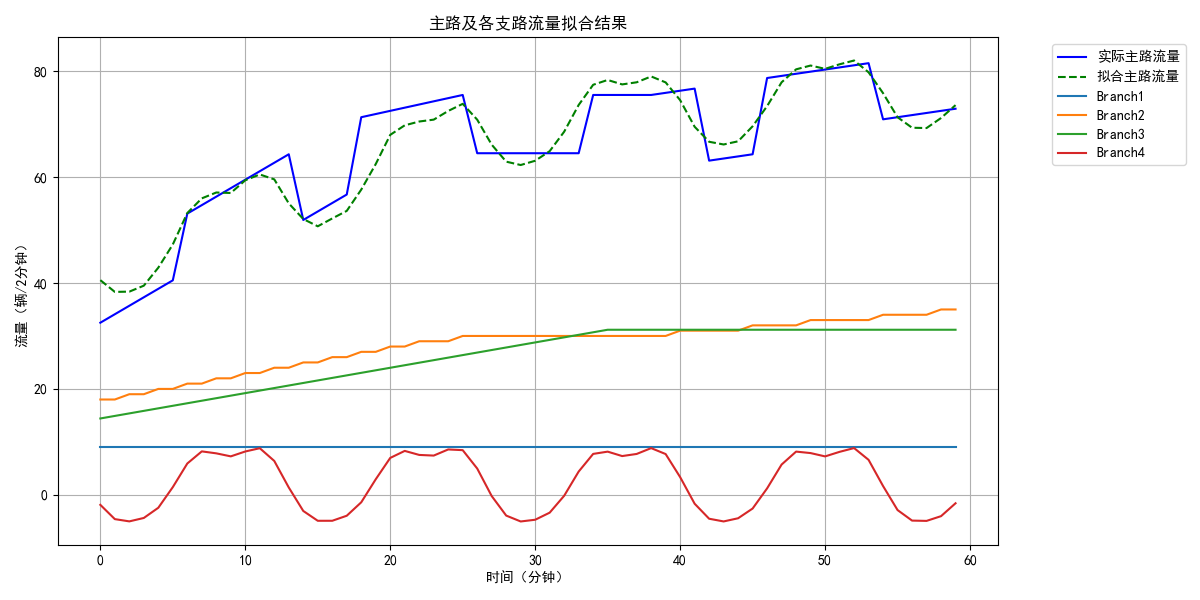
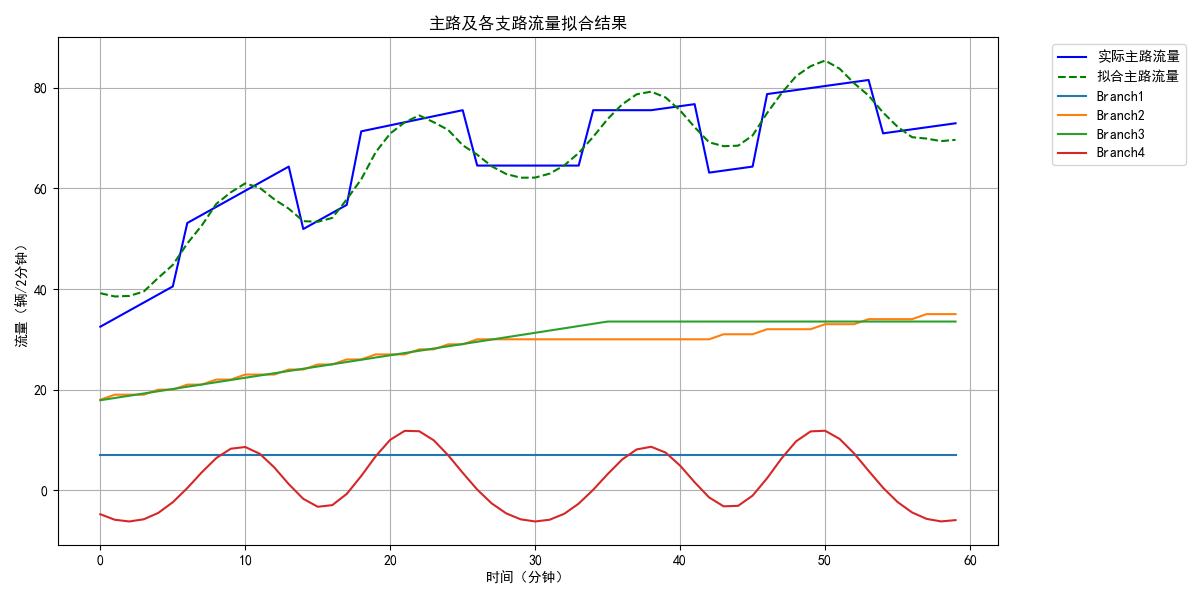
refactor(51MCM/P2): 重构代码并优化结果输出
- 优化变量命名和结构，提高代码可读性
- 改进参数边界设置，简化代码
- 更新函数定义，增强代码的模块化
- 调整绘图和结果输出，提升结果的呈现效果

diff --git a/51MCM/P2.py b/51MCM/P2.py
@@ -4,59 +4,44 @@ from scipy.optimize import minimize
 from pyswarm import pso
 import matplotlib.pyplot as plt
 
+# 配置matplotlib中文显示
 plt.rcParams['font.sans-serif'] = ['SimHei']
 plt.rcParams['axes.unicode_minus'] = False
 
 # 读取数据
-df = pd.read_excel('.\\2025-51MCM-Problem A\\附件(Attachment).xlsx', sheet_name='表2 (Table 2)')
-times = df['时间 t (Time t)'].values
-F_true = df['主路5的车流量 (Traffic flow on the Main road 5)'].values
+_df = pd.read_excel('.\\2025-51MCM-Problem A\\附件(Attachment).xlsx', sheet_name='表2 (Table 2)')
+times = _df['时间 t (Time t)'].values
+F_true = _df['主路5的车流量 (Traffic flow on the Main road 5)'].values
 
-# 定义Huber损失函数（鲁棒优化）
 def huber_loss(y_true, y_pred, delta=10.0):
     error = y_true - y_pred
     return np.where(np.abs(error) <= delta, 0.5 * error**2, delta * (np.abs(error) - 0.5 * delta))
 
-# 支路流量函数定义
 def branch1(t, C1):
     return C1 if np.isscalar(t) else np.full_like(t, C1)
 
 def branch2(t, a1, b1, a2):
-    C2 = a1 * 24 + b1 # 稳定阶段的车流量
+    C2 = a1 * 24 + b1
     result = np.zeros_like(t)
-
     mask_growth = (t <= 24)
     mask_stable = (t > 24) & (t <= 37)
     mask_decrease = (t > 37)
-
     result[mask_growth] = a1 * t[mask_growth] + b1
     result[mask_stable] = C2
-    # 确保线性减少阶段在 t=37 处与稳定阶段的值相等
     result[mask_decrease] = a2 * (t[mask_decrease] - 37) + C2
-
     return result
 
-def branch3(t, a3, b3, t2, C3):
+def branch3(t, a3, b3, t2):
     result = np.zeros_like(t, dtype=float)
-
-    # 确保在 t2 时刻的车流量等于 C3
     C2_at_t2 = a3 * t2 + b3
-
     linear_growth_mask = t < t2
     stable_mask = t >= t2
-
-    # 在线性增长阶段，使用原始公式
     result[linear_growth_mask] = a3 * t[linear_growth_mask] + b3
-
-    # 在稳定阶段，直接设置为 C2_at_t2 而不是 C3，从而保证连续性
     result[stable_mask] = C2_at_t2
-
     return result
 
-# 傅里叶级数支路4
-# params_fourier: [N, T, A0, A1, ..., AN, B1, ..., BN]
 def branch4(t, params_fourier):
-    N = int(round(params_fourier[0]))  # 阶数取整
+    N = int(round(params_fourier[0]))
     T = params_fourier[1]
     A0 = params_fourier[2]
     A = params_fourier[3:3+N]
@@ -66,90 +51,55 @@ def branch4(t, params_fourier):
         result += A[n-1] * np.cos(2 * np.pi * n * t / T) + B[n-1] * np.sin(2 * np.pi * n * t / T)
     return result
 
-# 修改total_flow，适配新的支路4
-# params = [C1, a1, b1, a2, a3, b3, t2, C3, N, T, A0, A1...AN, B1...BN]
 def total_flow(t, params):
-    C1, a1, b1, a2, a3, b3, t2, C3 = params[:8]
-    N = int(round(params[8]))
-    T = params[9]
-    A0 = params[10]
-    A = params[11:11+N]
-    B = params[11+N:11+2*N]
+    C1, a1, b1, a2, a3, b3, t2 = params[:7]
+    N = int(round(params[7]))
+    T = params[8]
+    A0 = params[9]
+    A = params[10:10+N]
+    B = params[10+N:10+2*N]
     params_fourier = [N, T, A0] + list(A) + list(B)
     t_delayed = np.maximum(0, t - 2)
     return (
         branch1(t_delayed, C1) +
         branch2(t_delayed, a1, b1, a2) +
-        branch3(t, a3, b3, t2, C3) +
+        branch3(t, a3, b3, t2) +
         branch4(t, params_fourier)
     )
 
 def objective(params, times, F_measured):
     predicted = total_flow(times, params)
-    loss = huber_loss(F_measured, predicted, delta=10.0).sum()
-    return loss
+    return huber_loss(F_measured, predicted, delta=10.0).sum()
 
-# 参数边界约束
-bounds = [
-    (5, 10),
-    (0.4, 0.5),
-    (10, 20),
-    (0.2, 0.3),
-    (0.4, 0.5),
-    (10, 20),
-    (35, 45),
-    (15, 20),
-    (3, 10),  # N的边界
-    (10, 45),  # T的边界
-    (0, 10),  # A0的边界
-    (-10, 10),  # A1的边界
-    (-10, 10),  # A2的边界
-    (-10, 10),  # A3的边界
-    (-10, 10),  # A4的边界
-    (-10, 10),  # A5的边界
-    (-10, 10),  # A6的边界
-    (-10, 10),  # A7的边界
-    (-10, 10),  # A8的边界
-    (-10, 10),  # A9的边界
-    (-10, 10),  # A10的边界
-    (-10, 10),  # B1的边界
-    (-10, 10),  # B2的边界
-    (-10, 10),  # B3的边界
-    (-10, 10),  # B4的边界
-    (-10, 10),  # B5的边界
-    (-10, 10),  # B6的边界
-    (-10, 10),  # B7的边界
-    (-10, 10),  # B8的边界
-    (-10, 10),  # B9的边界
-    (-10, 10),  # B10的边界
+# 参数边界
+_bounds = [
+    (5, 10), (0.4, 0.5), (10, 20), (0.2, 0.3), (0.4, 0.5), (10, 20), (35, 45),
+    (3, 10), (10, 45), (0, 10), *[(-10, 10)]*20
 ]
-
-initial_guess = [5.0008, 0.4548, 10., 0.2, 0.4856, 10.5713, 39.4208, 15., 5, 25, 5, 1, 1, 1, 1, 1, 1, 1, 1, 1, 1, 1, 1, 1, 1, 1, 1, 1, 1]
+_initial_guess = [5.0008, 0.4548, 10., 0.2, 0.4856, 10.5713, 39.4208, 5, 25, 5] + [1]*20
 
 def optimize():
-    xopt_pso, fopt_pso = pso(objective, lb=[b[0] for b in bounds], ub=[b[1] for b in bounds],
-                             args=(times, F_true), swarmsize=200, omega=0.5, minfunc=1e-8, maxiter=1500)
-
-    result_local = minimize(objective, xopt_pso, args=(times, F_true), method='L-BFGS-B', bounds=bounds)
+    xopt_pso, _ = pso(objective, lb=[b[0] for b in _bounds], ub=[b[1] for b in _bounds],
+                      args=(times, F_true), swarmsize=200, omega=0.5, minfunc=1e-8, maxiter=1500)
+    result_local = minimize(objective, xopt_pso, args=(times, F_true), method='L-BFGS-B', bounds=_bounds)
     return result_local.x, result_local.fun
 
 best_params, best_error = optimize()
 
-print("最终最优参数:", best_params)
-print("最终最小误差:", best_error)
+# 支路流量分解
 
 def compute_branch_flows(t, params):
     t_array = np.array([t]) if np.isscalar(t) else np.array(t)
-    N = int(round(params[8]))
-    T = params[9]
-    A0 = params[10]
-    A = params[11:11+N]
-    B = params[11+N:11+2*N]
+    N = int(round(params[7]))
+    T = params[8]
+    A0 = params[9]
+    A = params[10:10+N]
+    B = params[10+N:10+2*N]
     params_fourier = [N, T, A0] + list(A) + list(B)
     flows = {
         "Branch1": branch1(t_array - 2, params[0]),
         "Branch2": branch2(t_array - 2, *params[1:4]),
-        "Branch3": branch3(t_array, *params[4:8]),
+        "Branch3": branch3(t_array, *params[4:7]),
         "Branch4": branch4(t_array, params_fourier)
     }
     return {k: v[0] if np.isscalar(t) else v for k, v in flows.items()}
@@ -157,8 +107,7 @@ def compute_branch_flows(t, params):
 flow_7_30 = compute_branch_flows(15, best_params)
 flow_8_30 = compute_branch_flows(45, best_params)
 
-print("7:30 各支路流量值:", flow_7_30)
-print("8:30 各支路流量值:", flow_8_30)
+# 公式格式化
 
 def format_expression_branch1(C1):
     return f"支路1: f(t) = {C1:.2f} （稳定）"
@@ -171,10 +120,11 @@ def format_expression_branch2(a1, b1, a2):
             f"-{a2:.2f}t + {a2*37 + C2:.2f}, & t \\geq 37 "
             "\\end{cases}")
 
-def format_expression_branch3(a3, b3, t2, C3):
+def format_expression_branch3(a3, b3, t2):
+    C2_at_t2 = a3 * t2 + b3
     return (f"支路3: f(t) = \\begin{{cases}} "
             f"{a3:.2f}t + {b3:.2f}, & t < {int(t2)} \\\\ "
-            f"{C3:.2f}, & t \\geq {int(t2)} "
+            f"{C2_at_t2:.2f}, & t \\geq {int(t2)} "
             "\\end{cases}")
 
 def format_expression_branch4(N, T, A0, A, B):
@@ -184,74 +134,86 @@ def format_expression_branch4(N, T, A0, A, B):
         terms.append(f"{B[n-1]:.2f} \\sin\\left(\\frac{{2\\pi {n} t}}{{{T}}}\\right)")
     return f"支路4: f(t) = " + " + ".join(terms)
 
-C1_opt, a1_opt, b1_opt, a2_opt, a3_opt, b3_opt, t2_opt, C3_opt = best_params[:8]
-N_opt = int(round(best_params[8]))
-T_opt = best_params[9]
-A0_opt = best_params[10]
-A_opt = best_params[11:11+N_opt]
-B_opt = best_params[11+N_opt:11+2*N_opt]
+C1_opt, a1_opt, b1_opt, a2_opt, a3_opt, b3_opt, t2_opt = best_params[:7]
+N_opt = int(round(best_params[7]))
+T_opt = best_params[8]
+A0_opt = best_params[9]
+A_opt = best_params[10:10+N_opt]
+B_opt = best_params[10+N_opt:10+2*N_opt]
 
+# 输出主要结果
+print("最终最优参数:", best_params)
+print("最终最小误差:", best_error)
+print("7:30 各支路流量值:", flow_7_30)
+print("8:30 各支路流量值:", flow_8_30)
 print("\n--- 各支路车流量函数表达式 ---")
 print(format_expression_branch1(C1_opt))
 print(format_expression_branch2(a1_opt, b1_opt, a2_opt))
-print(format_expression_branch3(a3_opt, b3_opt, t2_opt, C3_opt))
+print(format_expression_branch3(a3_opt, b3_opt, t2_opt))
 print(format_expression_branch4(N_opt, T_opt, A0_opt, A_opt, B_opt))
 
-# 绘图
-predicted_F = total_flow(times, best_params)
-plt.figure(figsize=(12, 6))
-plt.plot(times, F_true, label='实际主路流量', color='blue')
-plt.plot(times, predicted_F, label='拟合主路流量', linestyle='--', color='green')
+# 绘图与结果输出
 
-flows = compute_branch_flows(times, best_params)
-for name, flow in flows.items():
-    plt.plot(times, flow, label=name)
+def plot_and_save():
+    predicted_F = total_flow(times, best_params)
+    plt.figure(figsize=(12, 6))
+    plt.plot(times, F_true, label='实际主路流量', color='blue')
+    plt.plot(times, predicted_F, label='拟合主路流量', linestyle='--', color='green')
+    flows = compute_branch_flows(times, best_params)
+    for name, flow in flows.items():
+        plt.plot(times, flow, label=name)
+    plt.xlabel('时间（分钟）')
+    plt.ylabel('流量（辆/2分钟）')
+    plt.legend(bbox_to_anchor=(1.05, 1), loc='upper left')
+    plt.title('主路及各支路流量拟合结果')
+    plt.grid()
+    plt.tight_layout()
+    plt.savefig('./P2/主路及各支路流量拟合结果.png')
+    plt.close()
 
-plt.xlabel('时间（分钟）')
-plt.ylabel('流量（辆/2分钟）')
-plt.legend(bbox_to_anchor=(1.05, 1), loc='upper left')
-plt.title('主路及各支路流量拟合结果')
-plt.grid()
-plt.tight_layout()
-plt.savefig('./P2/主路及各支路流量拟合结果.png')
-plt.close()
+    residuals = F_true - predicted_F
+    plt.figure(figsize=(12, 6))
+    plt.plot(times, residuals, label='残差', color='red')
+    plt.axhline(0, color='black', linestyle='--')
+    plt.xlabel('时间（分钟）')
+    plt.ylabel('残差')
+    plt.title('残差分布')
+    plt.legend()
+    plt.grid()
+    plt.savefig('./P2/残差分布.png')
+    plt.close()
 
-residuals = F_true - predicted_F
-plt.figure(figsize=(12, 6))
-plt.plot(times, residuals, label='残差', color='red')
-plt.axhline(0, color='black', linestyle='--')
-plt.xlabel('时间（分钟）')
-plt.ylabel('残差')
-plt.title('残差分布')
-plt.legend()
-plt.grid()
-plt.savefig('./P2/残差分布.png')
-plt.close()
+    plt.figure(figsize=(8, 6))
+    plt.hist(residuals, bins=20, color='skyblue', edgecolor='black')
+    plt.xlabel('残差')
+    plt.ylabel('频率')
+    plt.title('残差分布直方图')
+    plt.grid()
+    plt.savefig('./P2/残差分布直方图.png')
+    plt.close()
 
-plt.figure(figsize=(8, 6))
-plt.hist(residuals, bins=20, color='skyblue', edgecolor='black')
-plt.xlabel('残差')
-plt.ylabel('频率')
-plt.title('残差分布直方图')
-plt.grid()
-plt.savefig('./P2/残差分布直方图.png')
-plt.close()
-
-# 输出公式到 result.md
-result_lines = ['# Result']
-result_lines.append(f'$ {format_expression_branch1(C1_opt)} $')
-result_lines.append(f'$ {format_expression_branch2(a1_opt, b1_opt, a2_opt)} $')
-result_lines.append(f'$ {format_expression_branch3(a3_opt, b3_opt, t2_opt, C3_opt)} $')
-result_lines.append(f'$ {format_expression_branch4(N_opt, T_opt, A0_opt, A_opt, B_opt)} $')
-
-with open('./P2/result.md', 'w', encoding='utf-8') as f:
-    for line in result_lines:
-        f.write(line + '\n')
-    f.write('\n')
-    f.write('## 7:30 各支路流量值\n')
+    # 输出公式到 result.md
+    result_lines = [
+        '# Result',
+        '',
+        f'$ {format_expression_branch1(C1_opt)} $',
+        f'$ {format_expression_branch2(a1_opt, b1_opt, a2_opt)} $',
+        f'$ {format_expression_branch3(a3_opt, b3_opt, t2_opt)} $',
+        f'$ {format_expression_branch4(N_opt, T_opt, A0_opt, A_opt, B_opt)} $',
+        '',
+        '## 7:30 各支路流量值',
+        '',
+    ]
     for k, v in flow_7_30.items():
-        f.write(f'- {k}: {v:.2f}\n')
-    f.write('\n')
-    f.write('## 8:30 各支路流量值\n')
+        result_lines.append(f'- {k}: {v:.2f}')
+    result_lines.append('')
+    result_lines.append('## 8:30 各支路流量值')
+    result_lines.append('')
     for k, v in flow_8_30.items():
-        f.write(f'- {k}: {v:.2f}\n')
+        result_lines.append(f'- {k}: {v:.2f}')
+    result_lines.append('')
+    with open('./P2/result.md', 'w', encoding='utf-8') as f:
+        for line in result_lines:
+            f.write(line + '\n')
+
+plot_and_save()

diff --git a/51MCM/P2/result.md b/51MCM/P2/result.md
@@ -1,17 +1,20 @@
 # Result
-$ 支路1: f(t) = 10.00 （稳定） $
-$ 支路2: f(t) = \begin{cases} 0.48t + 19.45, & t < 24 \\ 30.92, & 24 \leq t < 37 \\ -0.22t + 38.92, & t \geq 37 \end{cases} $
-$ 支路3: f(t) = \begin{cases} 0.48t + 14.42, & t < 35 \\ 16.14, & t \geq 35 \end{cases} $
-$ 支路4: f(t) = 2.73 + -3.89 \cos\left(\frac{2\pi 1 t}{13.68382319609962}\right) + -6.05 \sin\left(\frac{2\pi 1 t}{13.68382319609962}\right) + 0.36 \cos\left(\frac{2\pi 2 t}{13.68382319609962}\right) + -1.56 \sin\left(\frac{2\pi 2 t}{13.68382319609962}\right) + -1.08 \cos\left(\frac{2\pi 3 t}{13.68382319609962}\right) + 0.10 \sin\left(\frac{2\pi 3 t}{13.68382319609962}\right) $
+
+$ 支路1: f(t) = 7.34 （稳定） $
+$ 支路2: f(t) = \begin{cases} 0.44t + 19.55, & t < 24 \\ 30.13, & 24 \leq t < 37 \\ -0.29t + 40.70, & t \geq 37 \end{cases} $
+$ 支路3: f(t) = \begin{cases} 0.45t + 17.90, & t < 35 \\ 33.52, & t \geq 35 \end{cases} $
+$ 支路4: f(t) = 2.25 + -2.43 \cos\left(\frac{2\pi 1 t}{28.11357712239012}\right) + -2.62 \sin\left(\frac{2\pi 1 t}{28.11357712239012}\right) + -5.53 \cos\left(\frac{2\pi 2 t}{28.11357712239012}\right) + -4.24 \sin\left(\frac{2\pi 2 t}{28.11357712239012}\right) + 0.97 \cos\left(\frac{2\pi 3 t}{28.11357712239012}\right) + 1.48 \sin\left(\frac{2\pi 3 t}{28.11357712239012}\right) $
 
 ## 7:30 各支路流量值
-- Branch1: 9.00
+
+- Branch1: 7.00
 - Branch2: 25.00
-- Branch3: 21.60
-- Branch4: -4.90
+- Branch3: 24.60
+- Branch4: -3.26
 
 ## 8:30 各支路流量值
-- Branch1: 9.00
-- Branch2: 32.00
-- Branch3: 31.17
-- Branch4: -2.58
+
+- Branch1: 7.00
+- Branch2: 31.00
+- Branch3: 33.52
+- Branch4: -1.04
